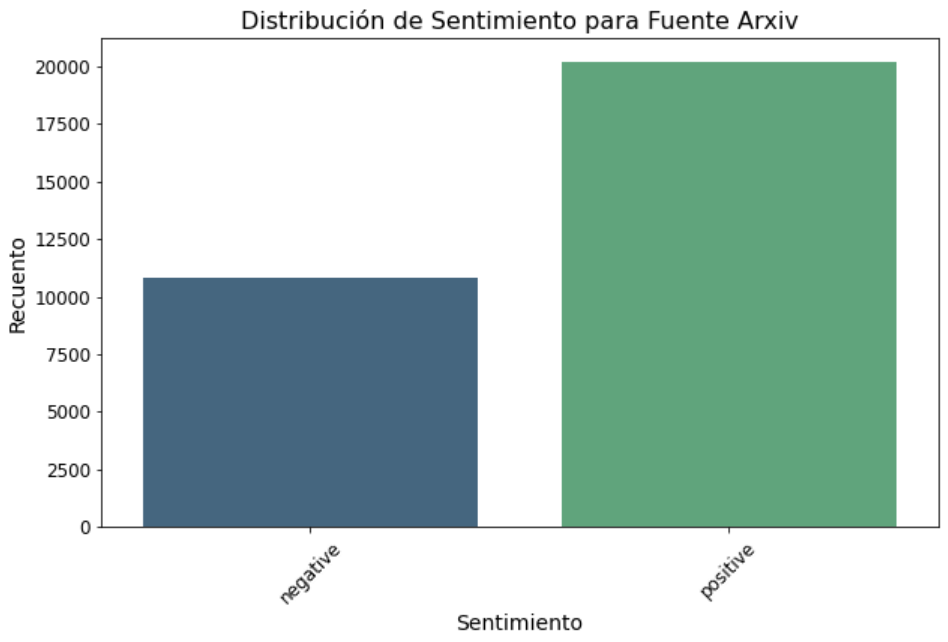
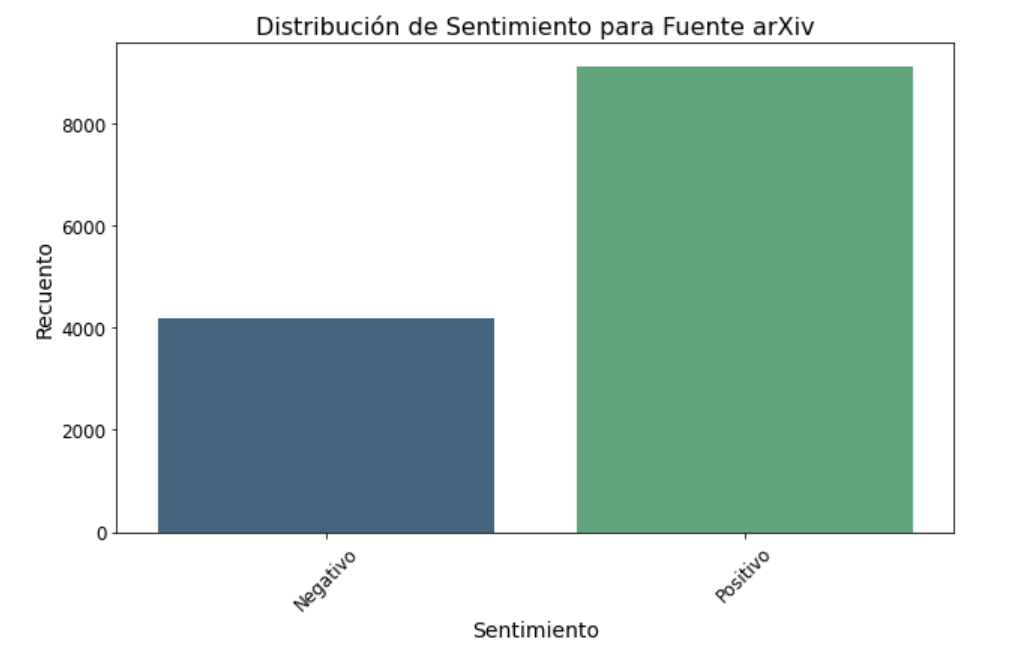
updates

Changed region(s): [[0.0, 0.0, 1.0, 0.9346], [0.4589, 0.9346, 0.6118, 0.9969], [0.673, 0.9034, 0.7036, 0.9346]]

diff --git a/src/app/comparison-stats/comparison-stats.component.scss b/src/app/comparison-stats/comparison-stats.component.scss
@@ -1,0 +1,63 @@
+.container img {
+    min-height: 350px;
+    max-height: 500px;
+    width: auto;
+    margin-bottom: 20px; /* Añadir espacio debajo de cada imagen */
+  }
+  
+  h3 {
+    color: #333;
+    font-weight: bold;
+    margin-bottom: 10px; /* Aumentar espacio debajo del título de cada gráfica */
+  }
+  
+  .container {
+    padding-top: 15px; /* Agrega un poco de espacio en la parte superior */
+    text-align: center; /* Centra el contenido textual dentro del contenedor */
+  }
+  
+  .btn-dark {
+    display: block; /* Asegura que el botón sea un bloque */
+    width: auto; /* Ajusta el ancho automáticamente */
+    margin: 0 auto 30px 0; /* Centra el botón horizontalmente y agrega margen inferior */
+  }
+  
+  .card {
+    margin-top: 40px;
+    margin-bottom: 40px;
+    border-radius: 15px;
+    border: none;
+    box-shadow: 0 4px 8px rgba(0,0,0,0.1);
+  }
+  
+  .card-body {
+    background-color: #f8f9fa;
+  }
+  
+  .card-title {
+    color: black;
+    margin-bottom: 15px;
+  }
+  
+  .list-group-item {
+    background-color: transparent;
+    border: none;
+    padding-left: 20px;
+    margin-bottom: 10px; /* Asegurar que el espacio entre elementos de lista se aplique */
+  }
+  
+  /* CSS para el título principal */
+  h1 {
+    margin-bottom: 50px; /* Aumentar el margen inferior para más espacio debajo del título */
+  }
+  
+  /* CSS para las columnas que contienen los tipos de estadísticas e imágenes */
+  .col-md-6 {
+    margin-top: 10px; /* Aumentar el margen superior para cada columna de estadísticas */
+  }
+  
+  /* CSS para la tarjeta que contiene observaciones y casos de uso */
+  .card {
+    margin-top: 70px; /* Aumentar el espacio antes de la tarjeta de observaciones y casos de uso */
+  }
+  

diff --git a/src/app/comparison-stats/comparison-stats.component.html b/src/app/comparison-stats/comparison-stats.component.html
@@ -1,0 +1,25 @@
+<div class="container text-center mt-5">
+    <div class="row">
+        <div class="col-12 text-left mb-3">
+            <button type="button" [routerLink]="['/stats']" class="btn btn-dark">Volver</button>
+        </div>
+    </div>
+    <h1 class="mb-4">Comparación de Textos Humanos vs Máquina</h1>
+    <div class="row">
+      <ng-container *ngFor="let statType of statsTypes">
+        <div class="col-md-6 mb-5">
+          <h3 class="mb-3">{{ shownStatsTypes[statType] }}</h3>
+          <img [src]="getImageUrl(statType)" alt="Comparación de {{ shownStatsTypes[statType] }}" class="img-fluid">
+        </div>
+      </ng-container>
+    </div>
+  
+    <div class="mt-5">
+      <div class="card shadow-sm">
+        <div class="card-body">
+          <h4 class="card-title text-primary">Observaciones</h4>
+          <p class="card-text">Los textos generados por máquina tienden a ser más neutrales y menos emocionales, mostrando una fuerte inclinación hacia una perspectiva racional y positiva. En contraste, los textos humanos presentan una mayor diversidad emocional y un equilibrio entre sentimientos positivos y negativos. En general, se observa que la distribución de los sesgos es similar en ambos tipos de textos. Sin embargo, las máquinas tienden a amplificar los rasgos predominantes de los textos humanos, haciendo que estos grupos estén más representados en los textos generados por IA.</p>
+        </div>
+      </div>
+    </div>
+</div>

diff --git a/src/app/app-routing.module.ts b/src/app/app-routing.module.ts
@@ -4,12 +4,14 @@ import { MainInterfaceComponent } from './main-interface/main-interface.componen
 import { StatisticsComponent } from './statistics/statistics.component';
 import { SpecificStatsComponent } from './specific-stats/specific-stats.component';
 import { SourceStatsComponent } from './source-stats/source-stats.component';
+import { ComparisonStatsComponent } from './comparison-stats/comparison-stats.component';
 
 const routes: Routes = [
   { path: '', component: MainInterfaceComponent },
   { path: 'stats', component: StatisticsComponent },
   { path: 'models/:modelName', component: SpecificStatsComponent },
-  { path: 'sources/:sourceName', component: SourceStatsComponent }
+  { path: 'sources/:sourceName', component: SourceStatsComponent },
+  { path: 'comparison-stats', component: ComparisonStatsComponent }
 
 ];
 

diff --git a/src/app/comparison-stats/comparison-stats.component.ts b/src/app/comparison-stats/comparison-stats.component.ts
@@ -1,0 +1,27 @@
+import { Component, OnInit } from '@angular/core';
+
+@Component({
+  selector: 'app-comparison-stats',
+  templateUrl: './comparison-stats.component.html',
+  styleUrls: ['./comparison-stats.component.scss']
+})
+export class ComparisonStatsComponent implements OnInit {
+  statsTypes: string[] = ['emotion', 'personality', 'sentiment', 'age', 'gender'];
+  shownStatsTypes: { [key: string]: string } = {
+    emotion: 'Emoción',
+    personality: 'Personalidad',
+    sentiment: 'Sentimiento',
+    age: 'Edad',
+    gender: 'Género'
+  };
+
+  constructor() { }
+
+  ngOnInit(): void {}
+
+  getImageUrl(statType: string): string {
+    const url = `./assets/comparisons/${statType}Comparison.png`;
+    console.log(url);
+    return url;
+  }
+}

diff --git a/src/app/comparison-stats/comparison-stats.component.spec.ts b/src/app/comparison-stats/comparison-stats.component.spec.ts
@@ -1,0 +1,25 @@
+import { ComponentFixture, TestBed } from '@angular/core/testing';
+
+import { ComparisonStatsComponent } from './comparison-stats.component';
+
+describe('ComparisonStatsComponent', () => {
+  let component: ComparisonStatsComponent;
+  let fixture: ComponentFixture<ComparisonStatsComponent>;
+
+  beforeEach(async () => {
+    await TestBed.configureTestingModule({
+      declarations: [ ComparisonStatsComponent ]
+    })
+    .compileComponents();
+  });
+
+  beforeEach(() => {
+    fixture = TestBed.createComponent(ComparisonStatsComponent);
+    component = fixture.componentInstance;
+    fixture.detectChanges();
+  });
+
+  it('should create', () => {
+    expect(component).toBeTruthy();
+  });
+});

diff --git a/src/app/app.module.ts b/src/app/app.module.ts
@@ -10,6 +10,7 @@ import { StatisticsComponent } from './statistics/statistics.component';
 import { SpecificStatsComponent } from './specific-stats/specific-stats.component';
 import { SourceStatsComponent } from './source-stats/source-stats.component';
 import { ChartModule } from 'angular-highcharts';
+import { ComparisonStatsComponent } from './comparison-stats/comparison-stats.component';
 
 @NgModule({
   declarations: [
@@ -17,7 +18,8 @@ import { ChartModule } from 'angular-highcharts';
     MainInterfaceComponent,
     StatisticsComponent,
     SpecificStatsComponent,
-    SourceStatsComponent
+    SourceStatsComponent,
+    ComparisonStatsComponent
   ],
   imports: [
     BrowserModule,

diff --git a/src/app/statistics/statistics.component.html b/src/app/statistics/statistics.component.html
@@ -42,7 +42,7 @@
         <div class="card">
             <img [src]="humano_maquina_image" class="card-img-top img-humano-maquina" alt="">
             <div class="card-body">
-              <button type="button" class="btn btn-dark btn-block large-button">Ver</button>
+              <button type="button" [routerLink]="['/comparison-stats']" class="btn btn-dark btn-block large-button">Ver</button>
             </div>
         </div>
       </div>
